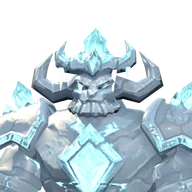
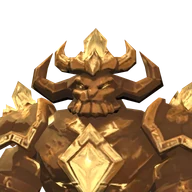
fix(map): show the Masterless Strength's golden body on its atlas bust
The bust showed the icy Quench body, but players meet and mostly picture
it in its golden-bronze Hammer body (its ring and arrival form). The
render script now picks one body of a multi-body rig through
final_body_core's node table, with a warmer forge key light for it.

diff --git a/scripts/raid_atlas/portrait_entry.js b/scripts/raid_atlas/portrait_entry.js
@@ -8,10 +8,15 @@
 // (buildModel, the posed skin-aware bounds), so the bust is the in-game model,
 // then frames a head-and-shoulders view from the posed bounds: the camera aims
 // at `aim` (a share of the posed height, from the feet) and frames a sphere of
-// `radius` (a share of the posed height). Everything is pinned for
+// `radius` (a share of the posed height); `body` picks one of a multi-body
+// rig's bodies. Everything is pinned for
 // determinism: a fixed canvas, pixel ratio 1, a fixed idle pose time and yaw.
 import * as THREE from 'three';
 import { buildModel, skinAwareBounds } from '../../src/guide/viewer/model';
+import {
+  FINAL_BODY_ELEMENTS,
+  FINAL_BODY_NODES,
+} from '../../src/render/smith_heart_fx/final_body_core';
 
 const SIZE = 768; // supersample; the driver downscales and encodes the shipped WebP
 const BASE_YAW = -0.45; // a soft three-quarter turn
@@ -30,10 +35,10 @@ renderer.outputColorSpace = THREE.SRGBColorSpace;
 
 /** The guide turntable's light rig, plus a camera-side fill so a face reads
  *  at map size and a coloured rim that cuts the silhouette off the field. */
-function makeLights(rim) {
+function makeLights(rim, warm) {
   const g = new THREE.Group();
   g.add(new THREE.HemisphereLight(0xffffff, 0x3a3a44, 1.5));
-  const key = new THREE.DirectionalLight(0xfff4e0, 1.9);
+  const key = new THREE.DirectionalLight(warm ?? 0xfff4e0, 1.9);
   key.position.set(3, 6, 4);
   g.add(key);
   const fill = new THREE.DirectionalLight(0xffffff, 0.7);
@@ -50,10 +55,22 @@ window.renderBust = (spec, tint, framing) =>
     buildModel(spec, tint ?? null).then((built) => {
       try {
         const scene = new THREE.Scene();
-        scene.add(makeLights(framing.rim));
+        scene.add(makeLights(framing.rim, framing.key));
         const pivot = new THREE.Group();
         pivot.rotation.y = BASE_YAW + (framing.yaw ?? 0);
         pivot.add(built.root);
+        // A model carrying several bodies on one rig (the Masterless
+        // Strength's four elements, final_body_core.ts) shows only the one
+        // the framing names, the way the game toggles them.
+        if (framing.body) {
+          for (const element of FINAL_BODY_ELEMENTS) {
+            if (element === framing.body) continue;
+            for (const name of FINAL_BODY_NODES[element]) {
+              const node = built.root.getObjectByName(name);
+              if (node) node.visible = false;
+            }
+          }
+        }
         built.root.traverse((o) => {
           if (o.isMesh) o.frustumCulled = false;
         });
